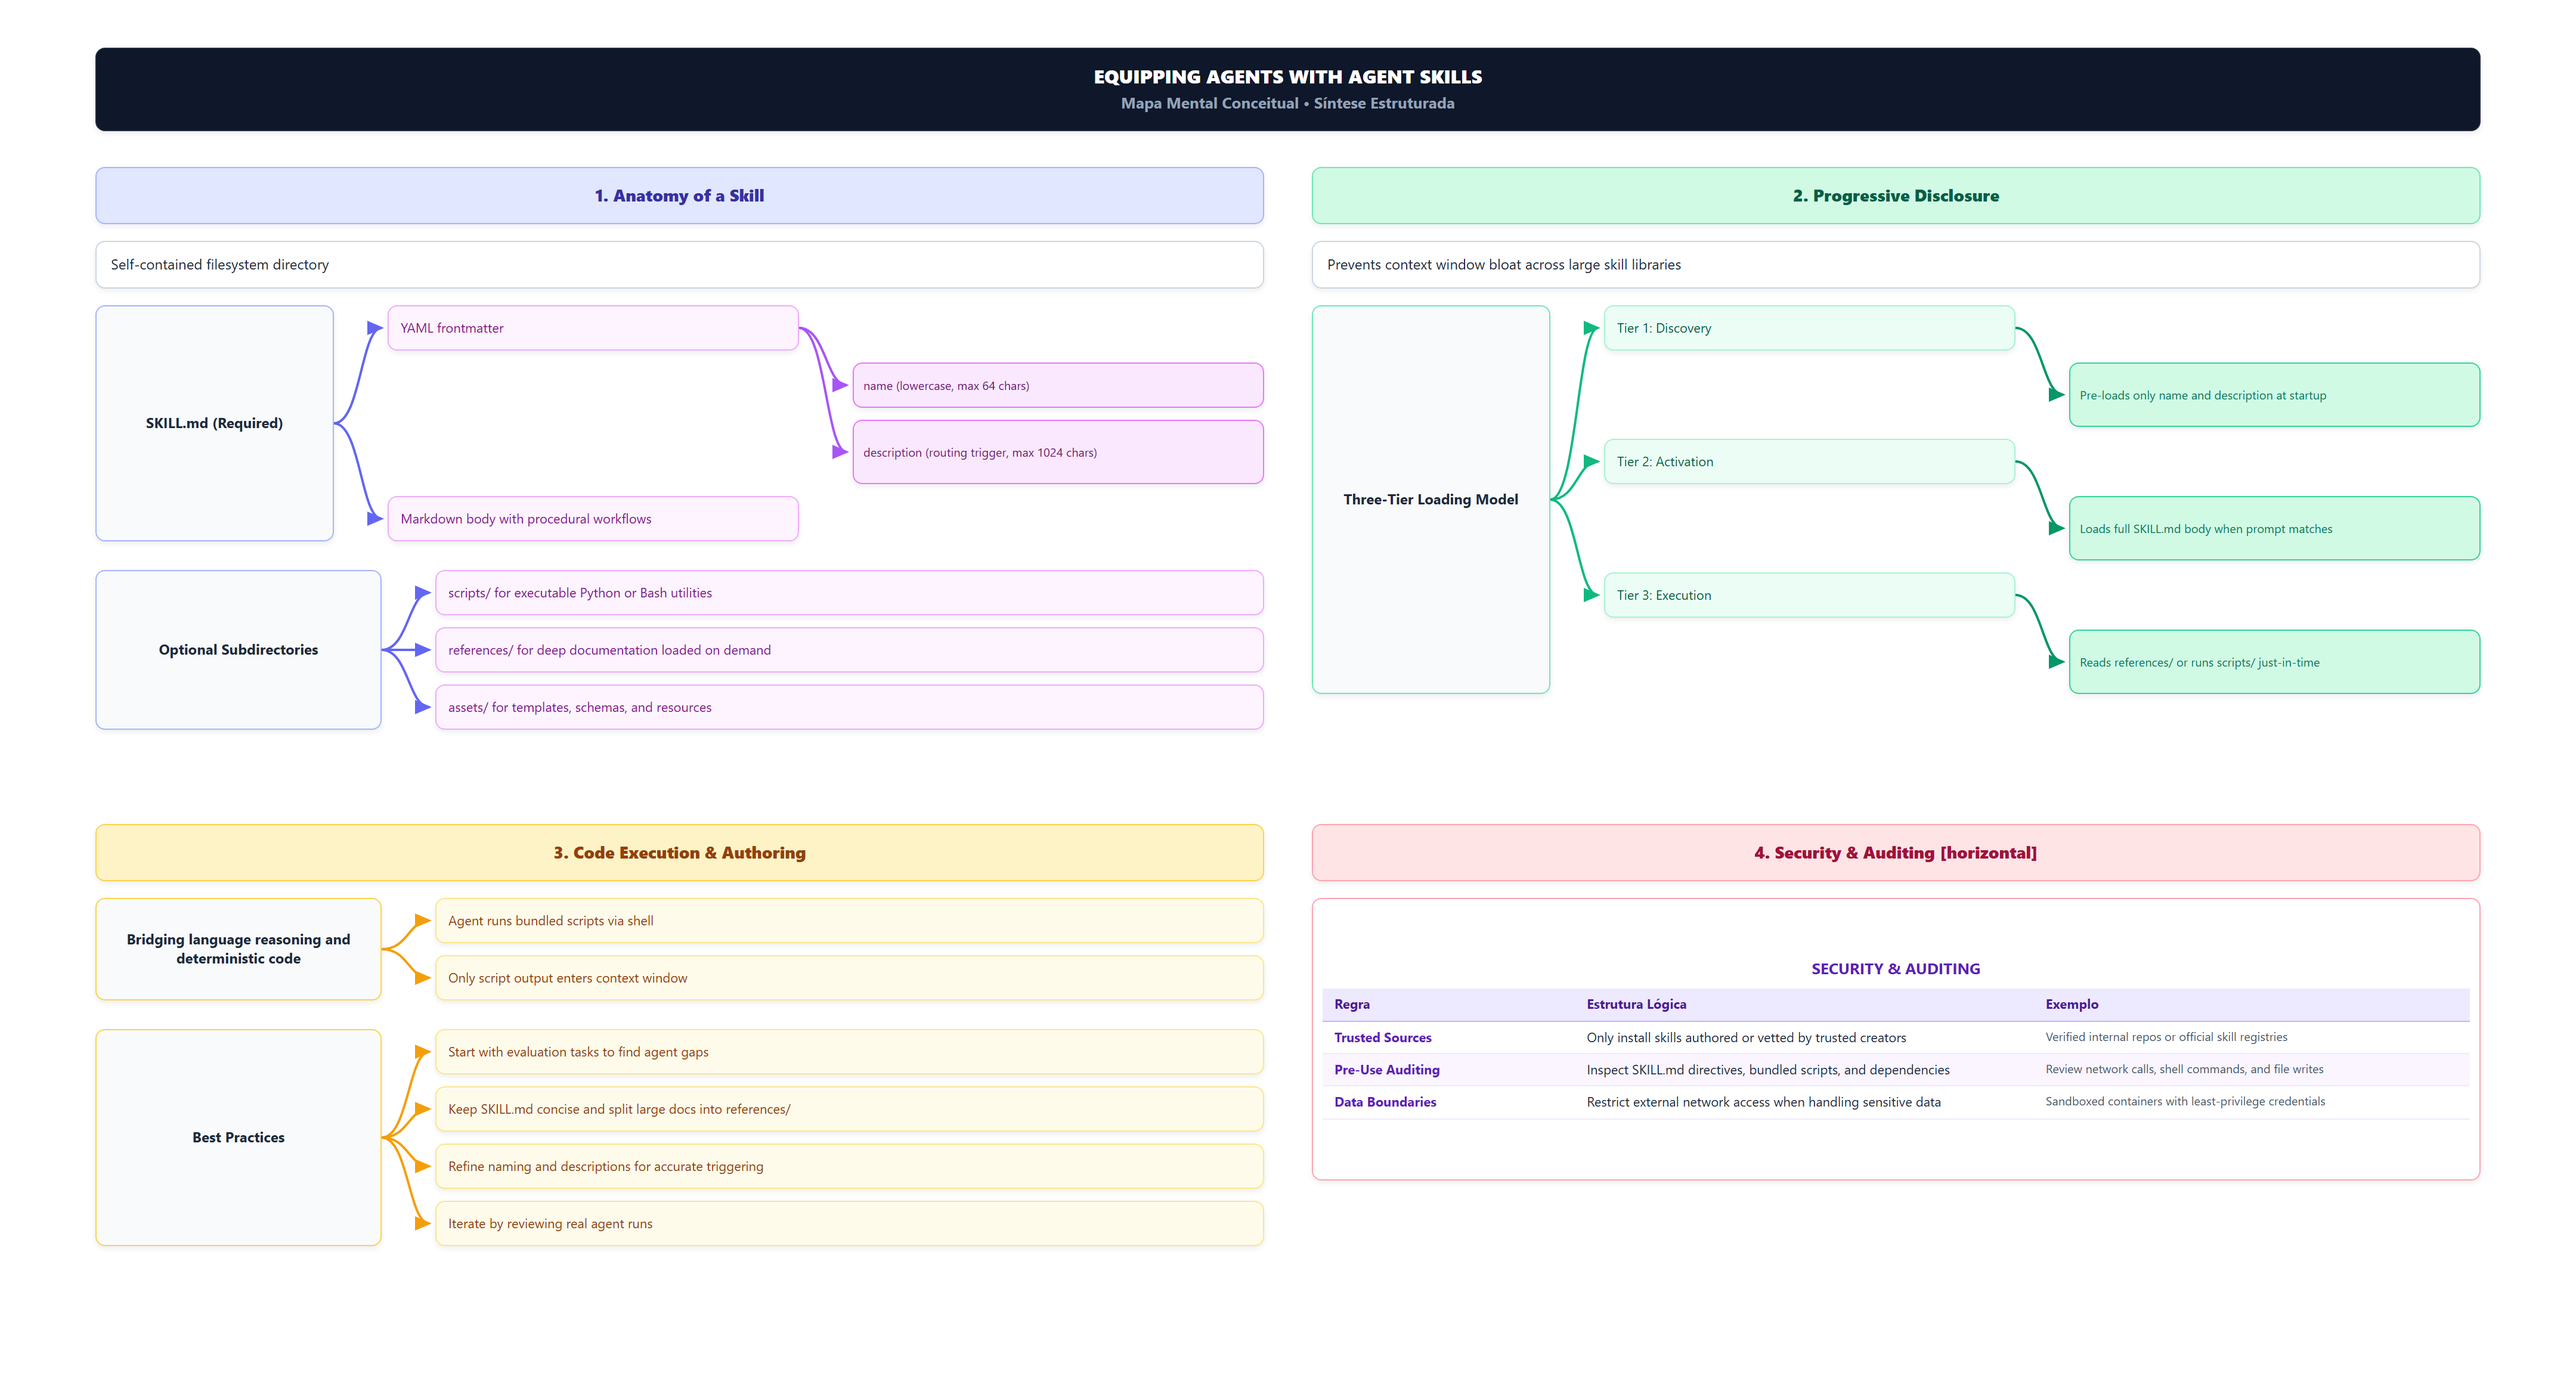
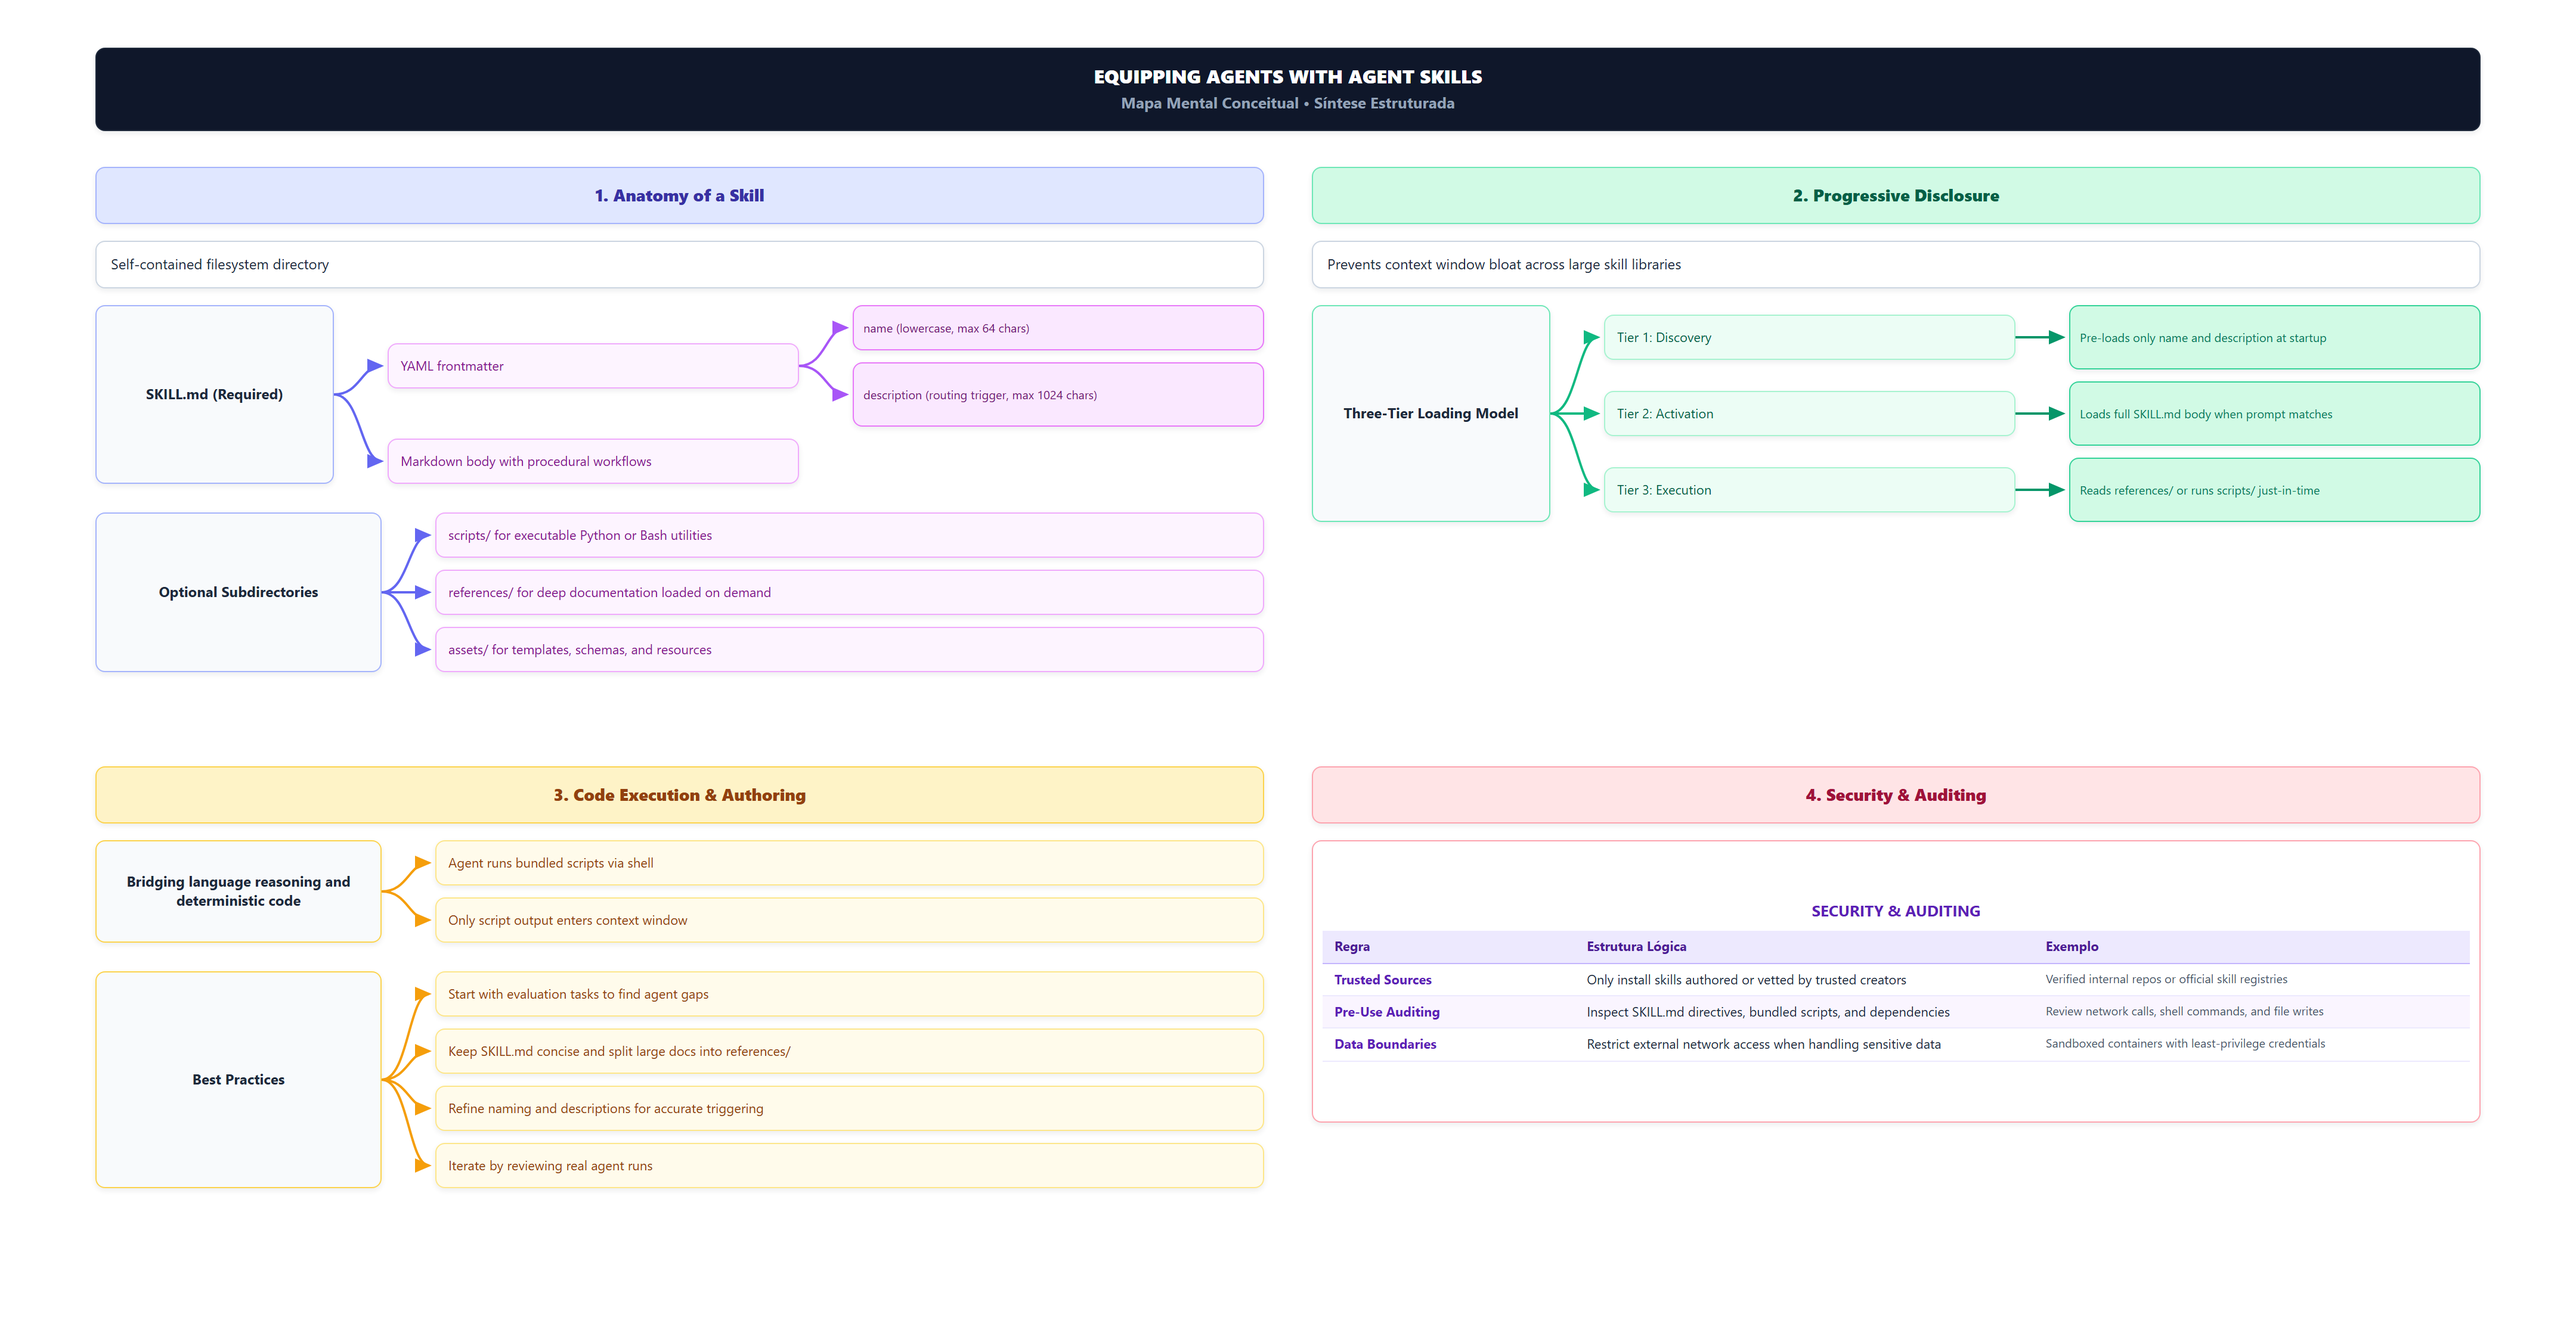
fix(mental-map): align nested bullet subtrees so chained arrows stay straight

diff --git a/.agents/skills/mental-map/scripts/layout.py b/.agents/skills/mental-map/scripts/layout.py
@@ -352,20 +352,63 @@ def build_layout(model: MentalMapModel) -> DiagramLayout:
                             tier_widths[lvl] = tier_w
                             tier_offsets[lvl] = parent_w + arrow_gap + lvl * (tier_w + arrow_gap)
 
-                    # Layout bullets vertically
-                    b_y_cursor = curr_y
+                    # Build parent->children map for hierarchical tree layout so chained arrows stay aligned
+                    bullet_by_id = {b.id: b for b in all_bullets}
+                    children_map: Dict[str, List[BulletNode]] = {b.id: [] for b in all_bullets}
+                    root_bullets: List[BulletNode] = []
+                    for b in all_bullets:
+                        if b.parent_id and b.parent_id in bullet_by_id and b.parent_id != b.id:
+                            children_map[b.parent_id].append(b)
+                        else:
+                            root_bullets.append(b)
+
+                    bullet_gap = 10
+                    own_heights: Dict[str, int] = {}
+                    subtree_heights: Dict[str, int] = {}
+
+                    def _compute_heights(node: BulletNode) -> int:
+                        b_w = tier_widths.get(node.nesting_level, 200)
+                        own_h = calculate_card_height(node.text, b_w, base_padding=18, min_height=38)
+                        own_heights[node.id] = own_h
+                        kids = children_map[node.id]
+                        if not kids:
+                            subtree_heights[node.id] = own_h
+                            return own_h
+                        kids_total_h = sum(_compute_heights(k) for k in kids) + bullet_gap * (len(kids) - 1)
+                        sub_h = max(own_h, kids_total_h)
+                        subtree_heights[node.id] = sub_h
+                        return sub_h
+
+                    for rb in root_bullets:
+                        _compute_heights(rb)
+
                     bullet_layout_items: List[Tuple[BulletNode, int, int, int, int]] = []
 
-                    for b in all_bullets:
-                        b_lvl = b.nesting_level
+                    def _place_subtree(node: BulletNode, y_top: int) -> None:
+                        b_lvl = node.nesting_level
                         b_w = tier_widths.get(b_lvl, 200)
                         b_x = sec_x + tier_offsets.get(b_lvl, parent_w + arrow_gap)
-                        b_h = calculate_card_height(b.text, b_w, base_padding=18, min_height=38)
+                        own_h = own_heights[node.id]
+                        sub_h = subtree_heights[node.id]
 
-                        bullet_layout_items.append((b, b_x, b_y_cursor, b_w, b_h))
-                        b_y_cursor += b_h + 10
+                        # Vertically center node within its subtree band so single-child arrows are straight
+                        b_y = y_top + (sub_h - own_h) // 2
+                        bullet_layout_items.append((node, b_x, b_y, b_w, own_h))
 
-                    total_bullets_h = max(40, b_y_cursor - curr_y - 10)
+                        kids = children_map[node.id]
+                        if kids:
+                            kids_total_h = sum(subtree_heights[k.id] for k in kids) + bullet_gap * (len(kids) - 1)
+                            kid_y = y_top + (sub_h - kids_total_h) // 2
+                            for kid in kids:
+                                _place_subtree(kid, kid_y)
+                                kid_y += subtree_heights[kid.id] + bullet_gap
+
+                    b_y_cursor = curr_y
+                    for rb in root_bullets:
+                        _place_subtree(rb, b_y_cursor)
+                        b_y_cursor += subtree_heights[rb.id] + bullet_gap
+
+                    total_bullets_h = max(40, b_y_cursor - curr_y - bullet_gap)
                     parent_h = max(calculate_card_height(concept.text, parent_w, min_height=45), total_bullets_h)
 
                     # Add parent card

diff --git a/.agents/skills/mental-map/scripts/test_mental_map.py b/.agents/skills/mental-map/scripts/test_mental_map.py
@@ -289,3 +289,27 @@ def test_parse_document_missing_file_raises(tmp_path):
         parse_document(missing)
 
 
+def test_chained_bullet_arrows_horizontally_aligned():
+    """Verify single-child nested bullets align vertically with their parent so arrows stay horizontal."""
+    sample = """# Chained Alignment
+**Sec 1**
+Model
+- Tier 1
+  - Detail 1
+- Tier 2
+  - Detail 2
+"""
+    model = parse_markdown_or_text(sample)
+    layout = build_layout(model)
+    by_label = {n.label: n for n in layout.nodes}
+
+    t1, d1 = by_label["Tier 1"], by_label["Detail 1"]
+    t2, d2 = by_label["Tier 2"], by_label["Detail 2"]
+
+    # Centers of Tier -> Detail must match within 1px integer rounding
+    assert abs((t1.y + t1.height / 2) - (d1.y + d1.height / 2)) <= 1.0
+    assert abs((t2.y + t2.height / 2) - (d2.y + d2.height / 2)) <= 1.0
+    # Tier 2 must sit cleanly below Tier 1 and Detail 1
+    assert t2.y >= max(t1.y + t1.height, d1.y + d1.height)
+
+
